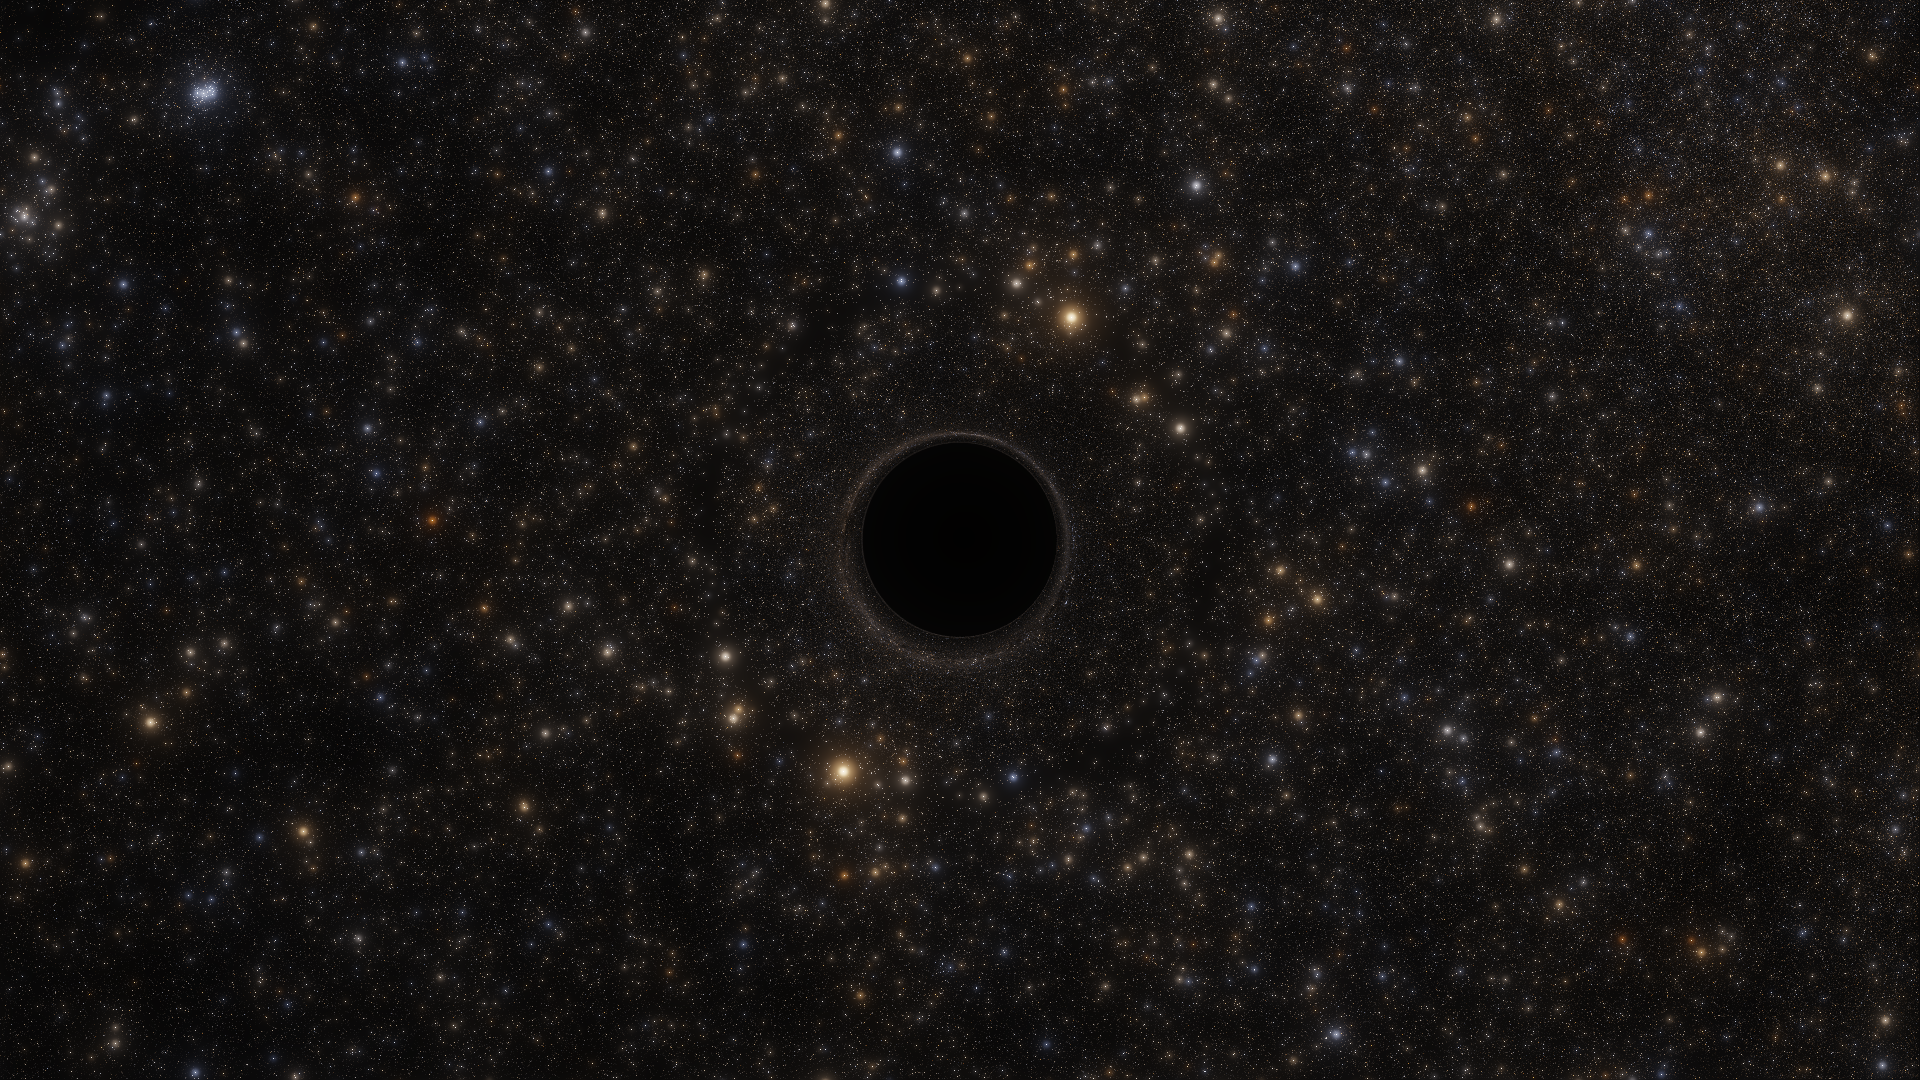
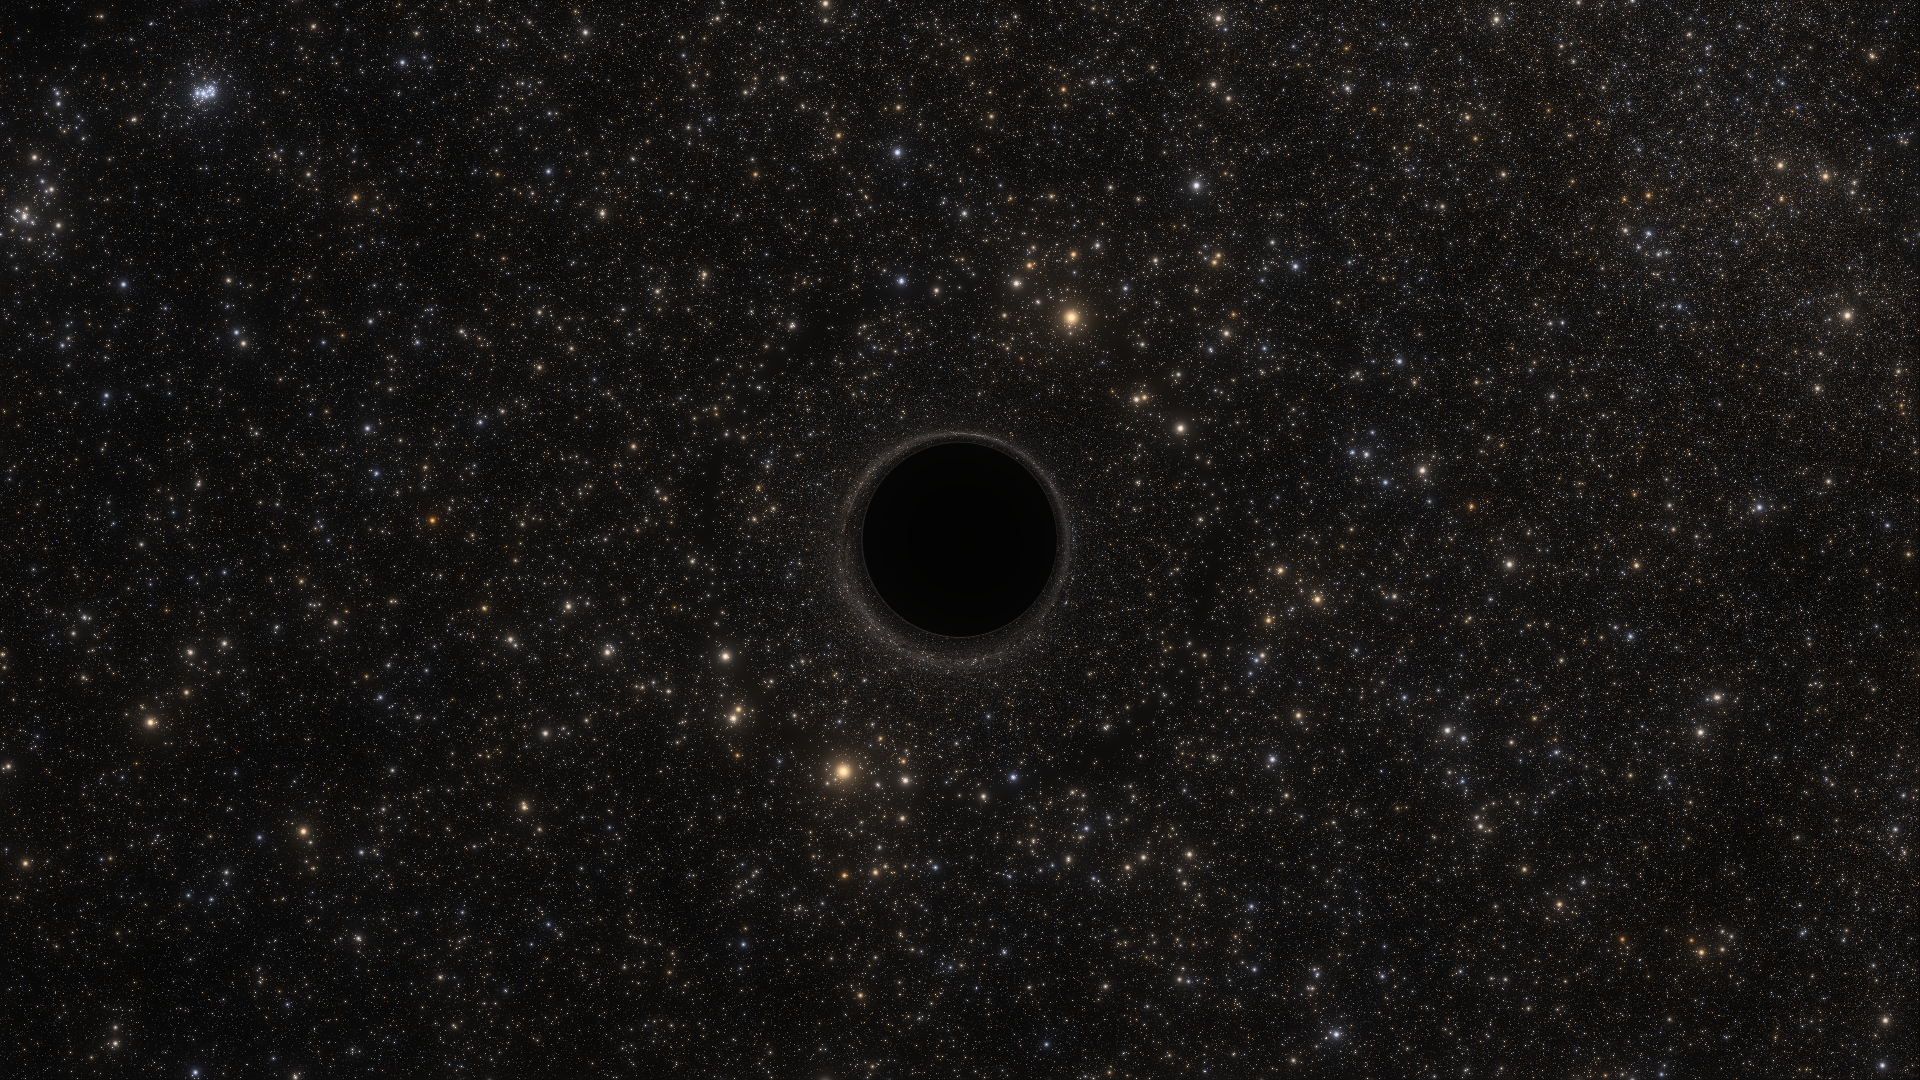
docs(images): brighten no-disc Gaia field to match the disc set
Re-grade the 1080p Schwarzschild no-disc star field at exposure 86 with the
same bloom + luminance-preserving ACES tone map used for the disc + star-field
finals (was exposure 69, plain ACES), so its star field matches theirs. Recipe
and gallery notes updated to reflect the new exposure and grade.

Claude-Session: https://claude.ai/code/session_01KovN3ofWRhnFdLQctCndkr

Changed region(s): [[0.5312, 0.275, 0.5625, 0.3056], [0.4375, 0.7028, 0.4688, 0.7333]]

diff --git a/images/schwarzschild.md b/images/schwarzschild.md
@@ -20,7 +20,8 @@ A Schwarzschild black hole lensing the real Gaia DR3 catalogue (G &le; 12) as
 point-source stars, no accretion disc. The shadow and photon ring are perfectly
 circular; the ring glow is clumpy only because the real sky is uneven (recipe:
 `images/gaia-mag12-schwarzschild-no-disc-1920x1080-2026-09-21.toml`; rendered to
-linear HDR and graded with bloom + an ACES tone map at exposure 69).
+linear HDR and graded with bloom + a luminance-preserving ACES tone map at
+exposure 86, the same grade as the disc finals below so the star fields match).
 
 <div align="center">
   <img src="gaia-mag12-schwarzschild-no-disc-1920x1080-2026-09-21.png" alt="A Schwarzschild black hole gravitationally lensing the real Gaia DR3 star field">
